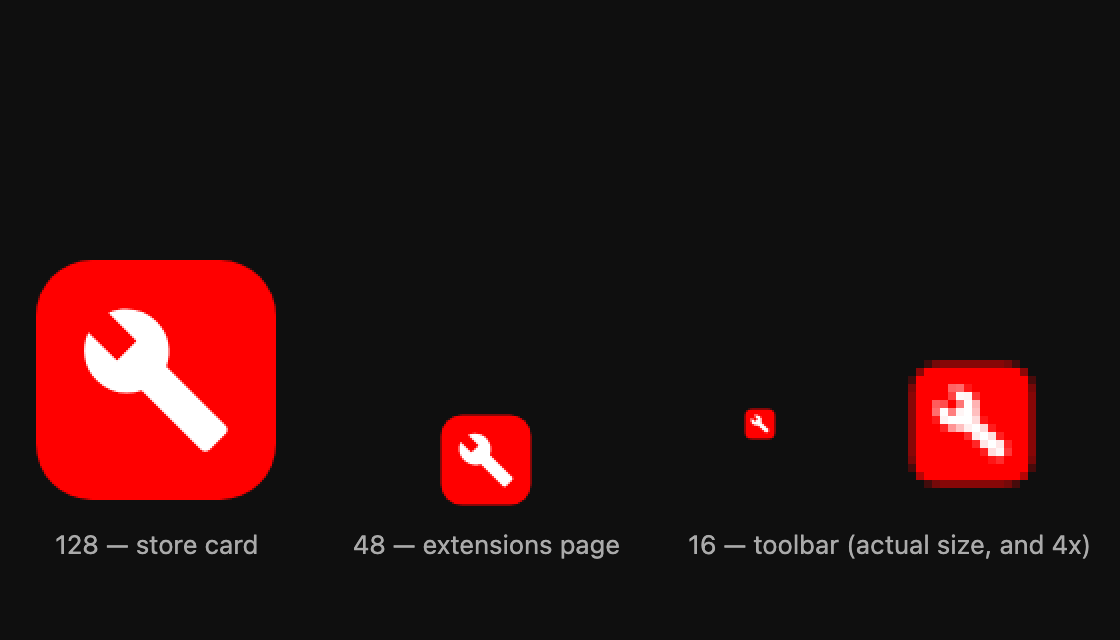
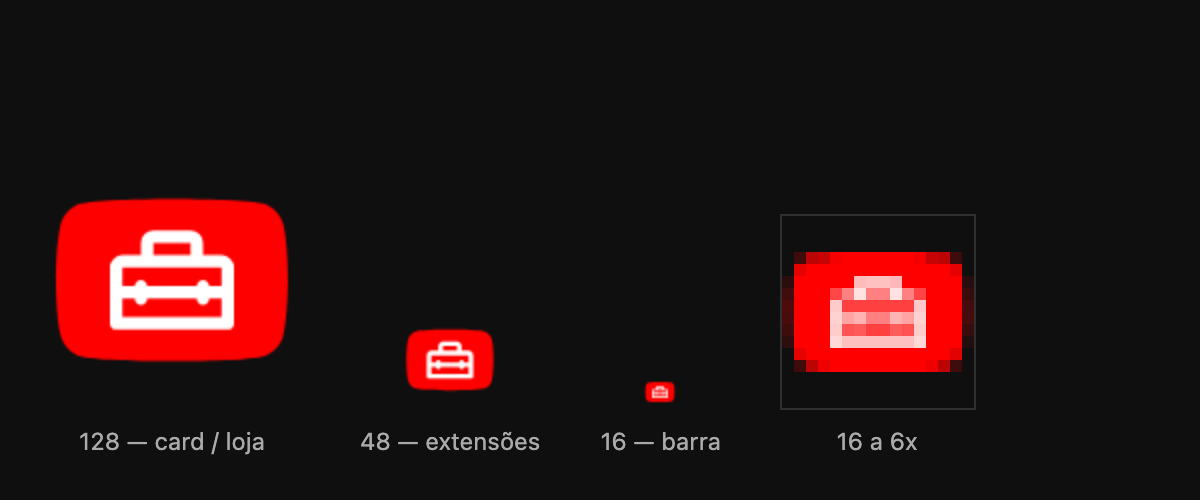
fix: use the official YouTube badge and a rounded toolbox
Four revisions, three of them corrected by Daniel, and the reasons generalise.

The badge is not a rounded rectangle. Its sides bulge and the curvature is
continuous — rx cannot express it. Now the official silhouette, lifted from the
YouTube logo SVG. A drawn rect and a square tile were both tried and both read
as a generic red app icon, because that bulge is most of what makes the shape
recognisable.

The square tile also traded the YouTube identity for 16px legibility, and that
trade was never necessary: Chrome accepts different artwork per size.

The glyph is Material Symbols `home_repair_service`, Rounded. A filled wrench
is a slab that loses the tool silhouette; an outlined wrench dissolves at 16px,
where its strokes are half a pixel — it measured 9% of the badge height. A
toolbox is a compact horizontal mass sharing the badge's proportion, so it
survives the size Chrome puts in the toolbar.

It is positioned on its ink, not its viewport: home_repair_service occupies a
wide short band inside a square 960 box, and centring the viewport would sit it
visibly high.

The legibility floor is now 35% and scoped to what it can detect — a dissolved
glyph. It was briefly 60%, where it failed the shipped design at 59%, a number
picked before the glyph was chosen. Squeezing the artwork to satisfy an invented
threshold, or lowering it until it passed while still implying it judged
proportion, would both have been dishonest. Proportion is a judgement call and
[…]

diff --git a/docs/work/009-icon-rebuild/EVIDENCE.md b/docs/work/009-icon-rebuild/EVIDENCE.md
@@ -86,3 +86,41 @@ $ npm run test:integration
 ℹ pass 13
 ℹ fail 0
 ```
+
+
+## 5. Artwork revisions, and what each was wrong about
+
+Recorded because three of the four were caught by the maintainer, not by me, and
+the reasons generalise.
+
+| Attempt | Wrong because |
+|---|---|
+| Rounded rect badge, filled wrench | The badge is not a rounded rectangle. Its sides bulge; the curvature is continuous. `rx` cannot express it |
+| Square tile, filled wrench | Traded the YouTube identity for 16px legibility. The trade was never necessary — Chrome accepts different artwork per size |
+| Official badge, filled wrench | The filled glyph is a solid slab that loses the wrench silhouette |
+| Official badge, outlined wrench | Dissolved at 16px. Its strokes are half a pixel there, measuring 9% of the badge height |
+
+The shipped artwork is the official badge path with Material Symbols Rounded
+`home_repair_service` — a toolbox, whose compact horizontal mass shares the
+badge's proportion and therefore survives 16px:
+
+```
+$ npm run icons:check
+PASS   16px  matches icon.svg exactly  tile 16x10  glyph 8x5 (50% of badge height)
+PASS   48px  matches icon.svg exactly  tile 44x32  glyph 22x18 (56% of badge height)
+PASS  128px  matches icon.svg exactly  tile 116x82  glyph 62x48 (59% of badge height)
+
+icons ok
+```
+
+### On the legibility floor
+
+It is set at 35%, which is loose. It was briefly set at 60%, where it failed the
+shipped design at 59% — a number I had picked before choosing the glyph. Neither
+squeezing the artwork to satisfy an invented threshold nor lowering it until it
+passed while still implying it tests proportion would have been honest.
+
+So it is now scoped to what it can actually detect: a glyph that has *dissolved*
+(the outlined wrench measured 9%). Whether 56% or 62% is better proportioned is
+a judgement call, and it lives in `icons/src/icon.svg` where it can be argued
+with, rather than smuggled in as a threshold that looks objective.

diff --git a/docs/SPEC.md b/docs/SPEC.md
@@ -27,7 +27,7 @@ Supersession 2026-08-20 (user session, prints on MrBeast *Last To Leave Mansion*
 - Store / card name: **YouTube Toolkit**
 - Folder / short name: `yt-toolkit`
 - Chrome MV3 unpacked extension, YouTube only (plus the quiet search app host)
-- Chrome card icon: red YouTube square + **white wrench** (Material `build`). The source of truth is `icons/src/icon.svg`; the PNGs are rendered from it with `npm run icons` and must never be hand-edited. `npm run icons:check` fails if a PNG drifts from the vector, or if the glyph is too small to read at 16px — the size Chrome puts in the toolbar
+- Chrome card icon: the **official YouTube badge silhouette** in red (lifted from the logo — not a rounded rectangle; the sides bulge) + a **white toolbox**, Material Symbols `home_repair_service`, **Rounded** weight. The source of truth is `icons/src/icon.svg`; the PNGs are rendered from it with `npm run icons` and must never be hand-edited. `npm run icons:check` fails if a PNG drifts from the vector, or if the glyph is too small to read at 16px — the size Chrome puts in the toolbar
 - Masthead No Distractions icon: original circle-with-slash, **not** the wrench
 
 ## 2. Non-goals
